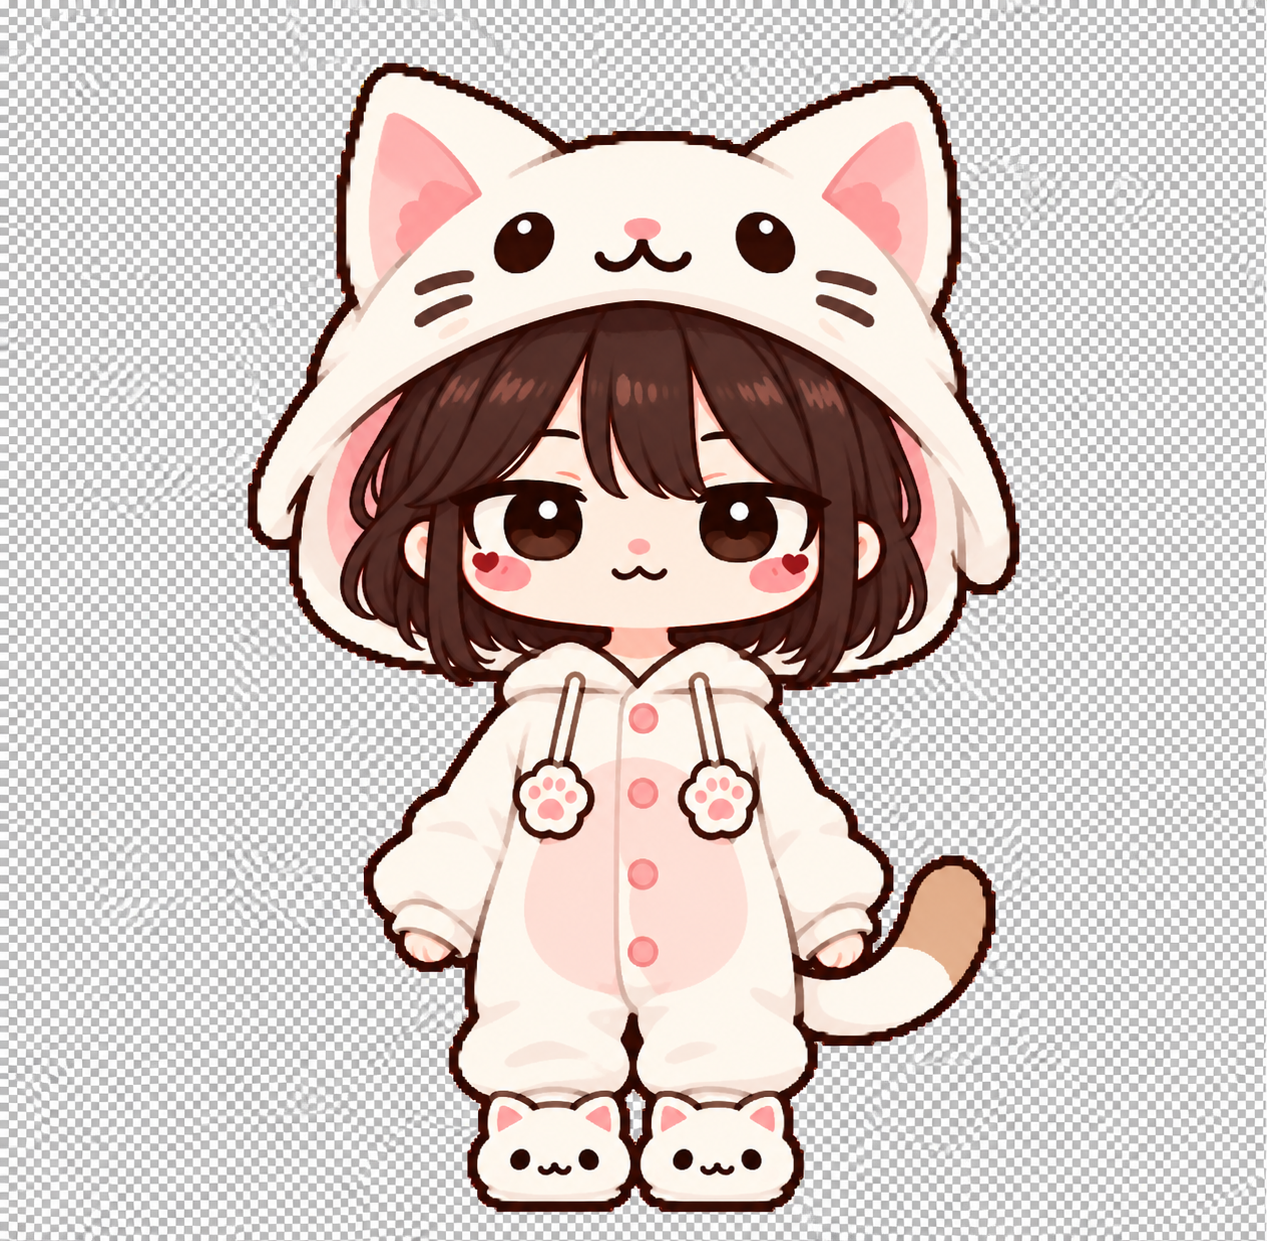
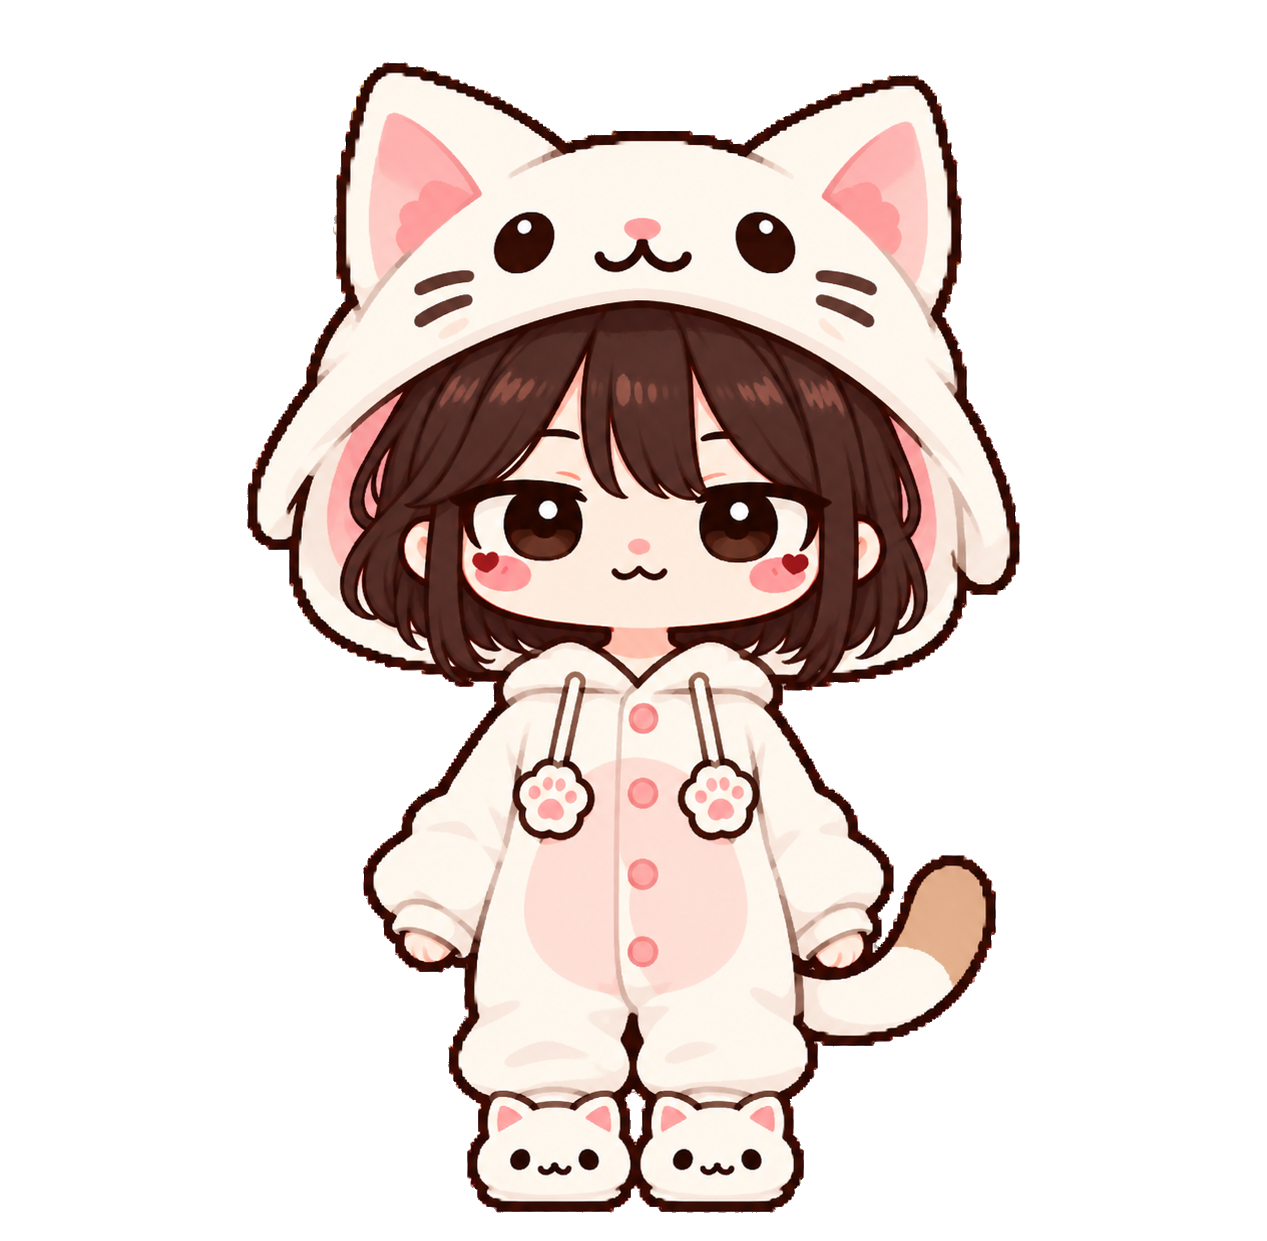
Make woman character (23) background transparent
- Remove the baked-in fake checkerboard (border flood-fill plus enclosed
  checker pockets, e.g. between the feet); the cream costume is kept
- Regenerate its entry in character_art_insets

diff --git a/lib/data/character_art_insets.dart b/lib/data/character_art_insets.dart
@@ -61,7 +61,7 @@ class CharacterArtInsets {
     'character (20).png': CharacterArtInsets(1.0234, 0.143, 0.143, 0.081, 0.027),
     'character (21).png': CharacterArtInsets(1.0210, 0.278, 0.264, 0.051, 0.042),
     'character (22).png': CharacterArtInsets(1.0210, 0.251, 0.254, 0.110, 0.046),
-    'character (23).png': CharacterArtInsets(1.0210, 0.000, 0.000, 0.000, 0.000),
+    'character (23).png': CharacterArtInsets(1.0210, 0.195, 0.195, 0.050, 0.023),
     'character (24).png': CharacterArtInsets(1.0218, 0.185, 0.182, 0.052, 0.033),
     'character (25).png': CharacterArtInsets(1.0210, 0.178, 0.178, 0.093, 0.028),
     'character (26).png': CharacterArtInsets(1.0218, 0.195, 0.203, 0.081, 0.040),
